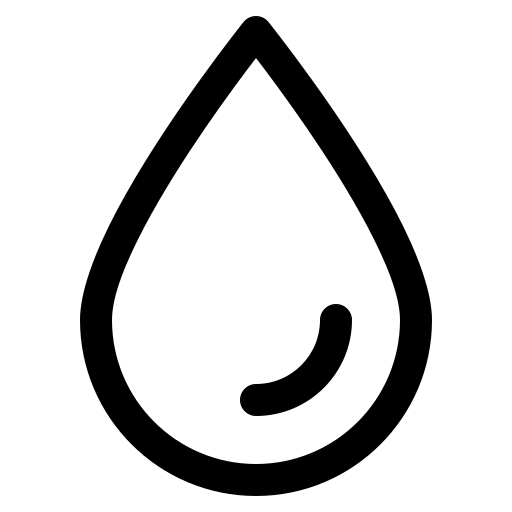
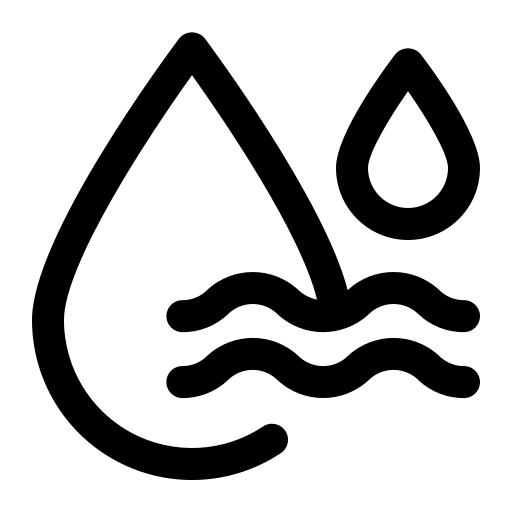
..

diff --git a/src/components/MoreDetailsCard.tsx b/src/components/MoreDetailsCard.tsx
@@ -4,6 +4,11 @@ import {
   type WeatherData,
 } from "../services/weatherService";
 
+import humidityIcon from "../assets/humidity.png";
+import sunriseIcon from "../assets/sunrise.png";
+import sunIcon from "../assets/sun.png";
+import visibilityIcon from "../assets/visibility.png";
+import feelsLikeIcon from "../assets/feels_like.png";
 interface MoreDetailsCardProps {
   weather: WeatherData | null;
   temperatureUnit: TemperatureUnit;
@@ -31,27 +36,27 @@ function MoreDetailsCard({
     {
       label: "Feels Like",
       value: `${feelsLike}${tempUnitLabel}`,
-      icon: "🌡",
+      icon: feelsLikeIcon,
     },
     {
       label: "Humidity",
       value: `${weather.humidity}%`,
-      icon: "💧",
+      icon: humidityIcon,
     },
     {
       label: "Sunrise",
       value: weather.sunrise,
-      icon: "☀",
+      icon: sunriseIcon,
     },
     {
       label: "Sunset",
       value: weather.sunset,
-      icon: "◐",
+      icon: sunIcon,
     },
     {
       label: "Visibility",
       value: weather.visibility,
-      icon: "◉",
+      icon: visibilityIcon,
     },
   ];
 
@@ -85,7 +90,7 @@ function MoreDetailsCard({
           >
 
             <div className="more-detail-icon">
-              {detail.icon}
+             <img src={detail.icon} alt={detail.label} />
             </div>
 
             <div>

diff --git a/src/App.tsx b/src/App.tsx
@@ -4,7 +4,11 @@ import WeatherCard from "./components/WeatherCard";
 import ForecastSection from "./components/ForecastSection";
 import MoreDetailsCard from "./components/MoreDetailsCard";
 
-
+import settingIcon from "./assets/sidebarIcons/setting.png";
+import humidityIcon from "./assets/humidity.png";
+import homeIcon from "./assets/home.png";
+import forecastIcon from "./assets/forecast.png";
+import locationIcon from "./assets/location.png";
 import {
   getForecastByCity,
   getForecastByCoordinates,
@@ -397,22 +401,22 @@ function App() {
     {
       key: "home",
       label: "Home",
-      icon: "⌂",
+      icon: homeIcon,
     },
     {
       key: "forecast",
       label: "Forecast",
-      icon: "☁",
+      icon: forecastIcon,
     },
     {
       key: "location",
       label: "Location",
-      icon: "⌖",
+      icon: locationIcon,
     },
     {
       key: "settings",
       label: "Settings",
-      icon: "⚙",
+      icon: settingIcon,
     },
   ];
 
@@ -466,7 +470,10 @@ function App() {
                   }
                 >
                   <span className="navigator__icon">
-                    {item.icon}
+                    <img
+                      src={item.icon}
+                      alt={`${item.label} icon`}
+                    />
                   </span>
 
                   <span>

diff --git a/src/index.css b/src/index.css
@@ -779,9 +779,9 @@ input {
 
   border-radius: 10px;
 
-  background: rgba(254, 242, 242, 0.75);
+  background: rgba(230, 221, 221, 0.75);
 
-  color: #dc2626;
+  color: #b14141;
 
   border: 1px solid rgba(254, 202, 202, 0.75);
 
@@ -1054,7 +1054,6 @@ input {
 .save-location-button{
   background: var(--background);
   width: 5rem;
-  color: var(--text-primary);
   border-radius: 0.5rem;
   font-weight: 600;
   font-size: 12px;
@@ -1172,7 +1171,9 @@ input {
 
   color: var(--text-muted);
 }
-
+.more-detail-icon img{
+  width: 1rem;
+}
 
 /* More Details Grid */
 
@@ -1444,6 +1445,9 @@ input {
   font-size: 12px;
 }
 
+.navigator__icon img{
+  width: 1rem;
+}
 
 /* =========================================================
    LOCATION CARD
